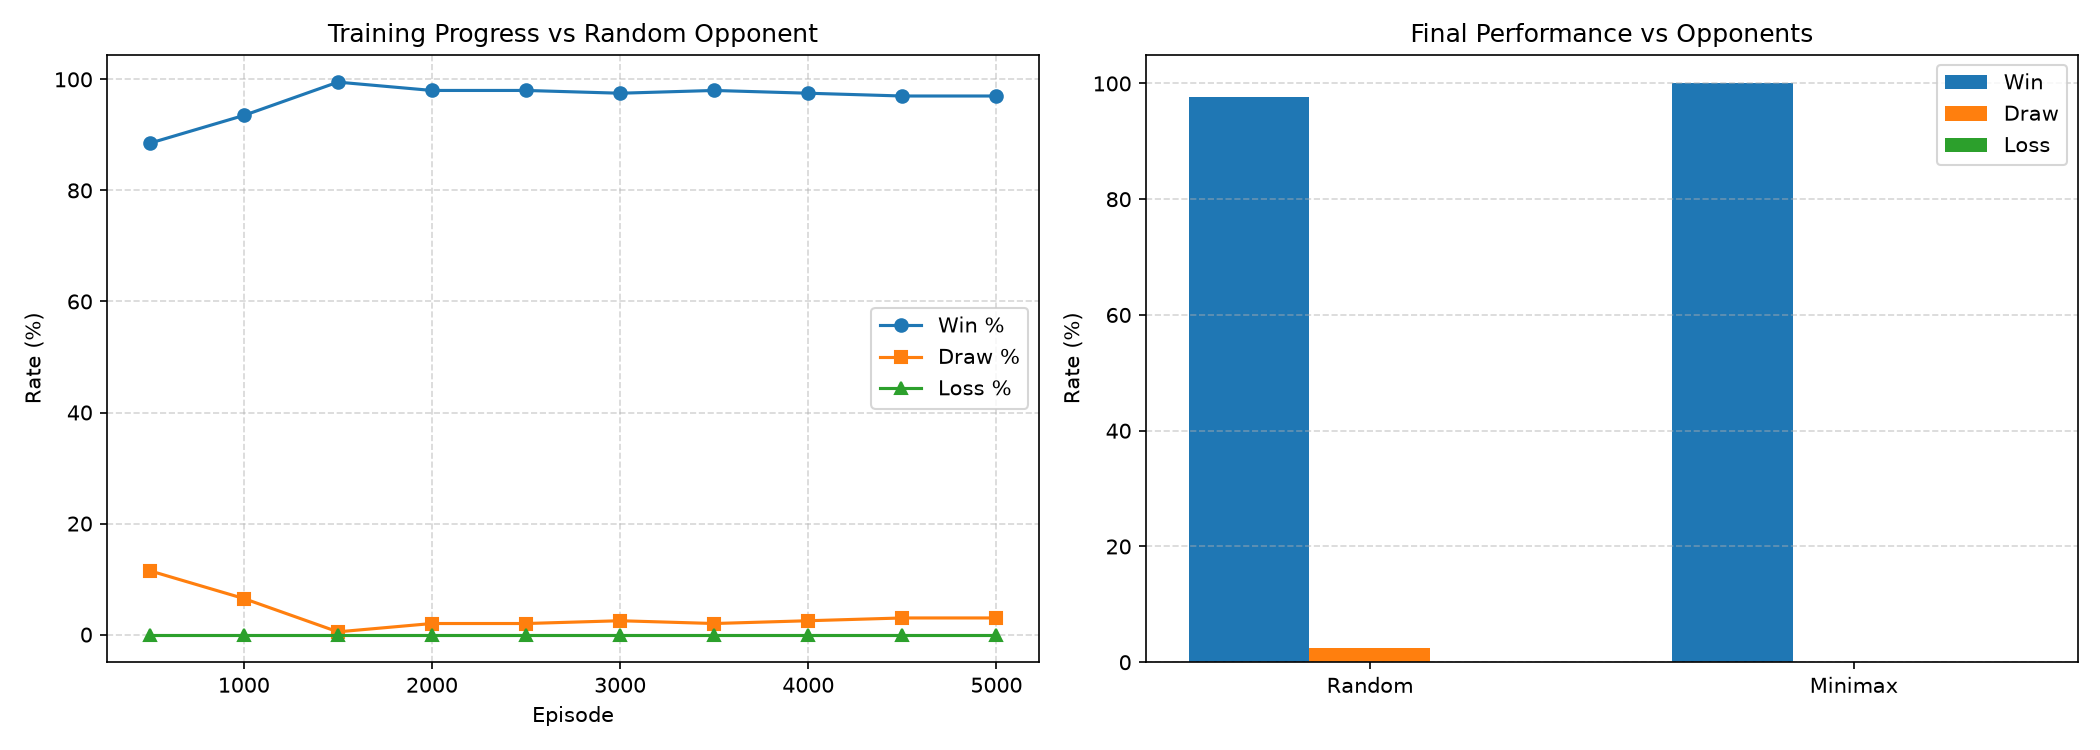
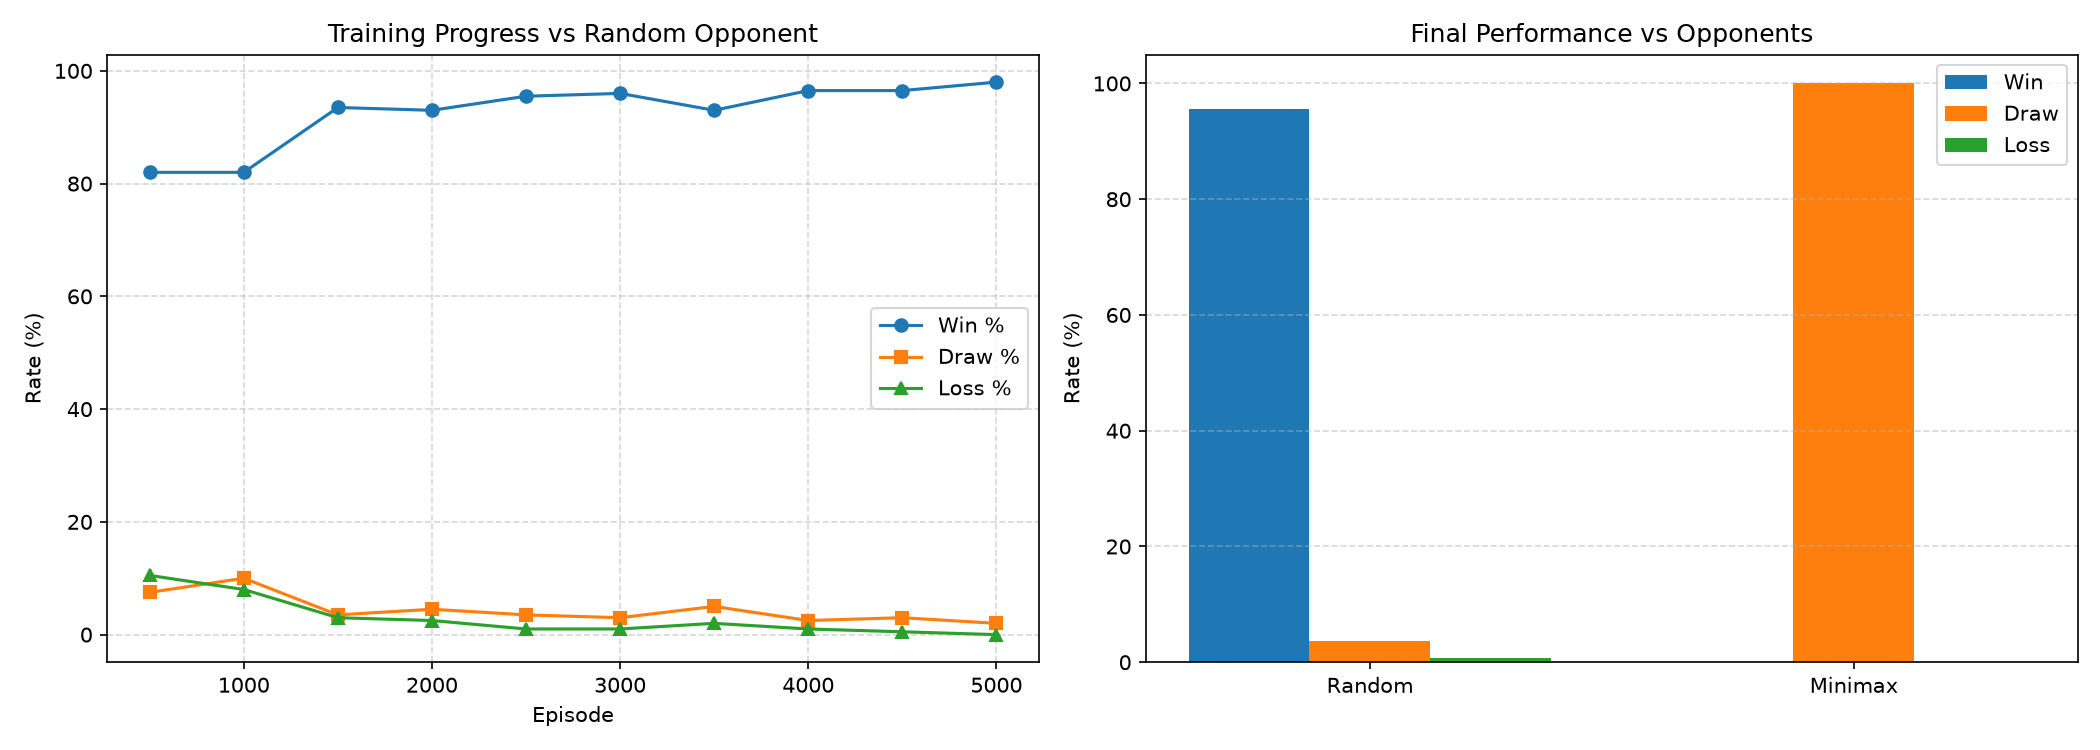
Assignment 10 Done

diff --git a/Assignment10/Code.py b/Assignment10/Code.py
@@ -211,12 +211,12 @@ def evaluate(agent, num_games=500, opponent="random", verbose=False):
             opp_state, opp_reward, done_after_opp, _ = env.step(opp_action)
 
             if done_after_opp:
-                if opp_reward == 1.0:
-                    losses += 1
-                elif opp_reward == 0.5:
-                    draws += 1
-                else:
+                if env.winner == 1:
                     wins += 1
+                elif env.winner == -1:
+                    losses += 1
+                else:
+                    draws += 1
                 done = True
             else:
                 state = opp_state
